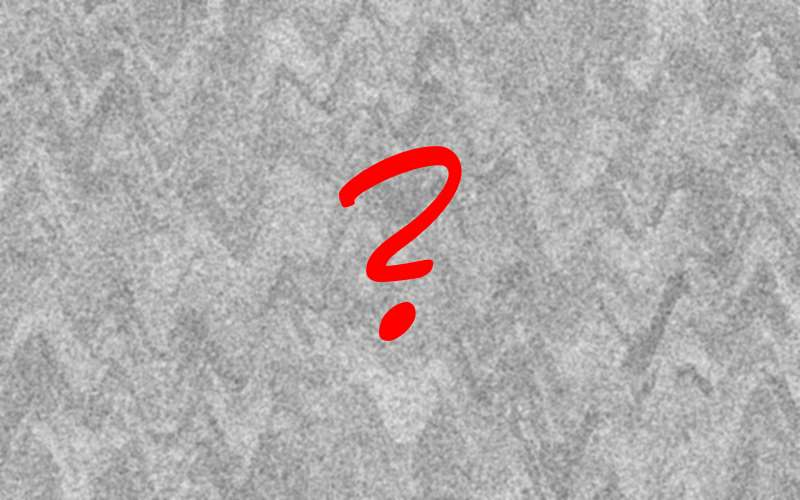
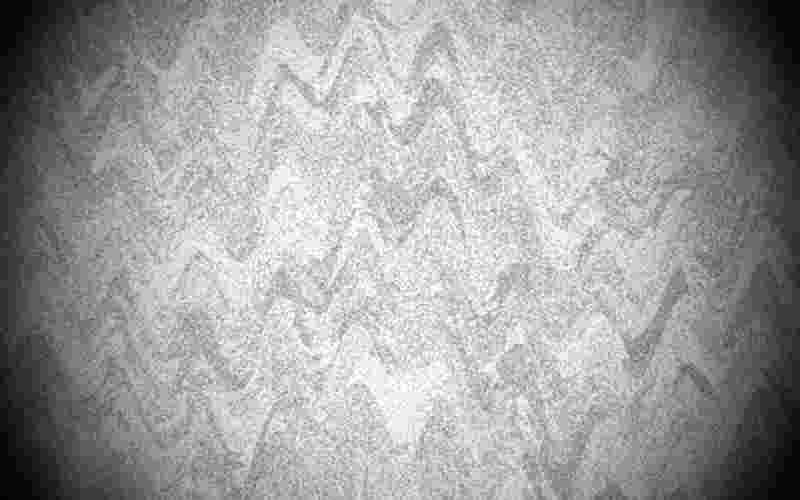
- added url params for info colors - changed default 'no signal image' (again)

diff --git a/www/main.js b/www/main.js
@@ -17,13 +17,9 @@ function writeToScreen(str) {
   while(out.children().length>5000) out.children().first().remove();
 }
 
-function pad(str, pad_str, max) {
+function pad (str, pad_str, max) {
   str = str.toString();
-  return str.length < max ? pad(pad_str.toString() + str, pad_str, max) : str;
-}
-
-function numberWithDots(x) {
-    return x.toString().replace(/\B(?=(\d{3})+(?!\d))/g, ".");
+  return str.length < max ? pad(pad_str.toString() + str, max) : str;
 }
 
 // New: GMCP support (Holger)
@@ -32,11 +28,6 @@ function getGMCPHello(){
 }
 
 function doGMCPReceive(sock, data) {
-
-  // Modify this line, if you need a different base URL
-  // or leave it blank to use a pure relative path.
-  var staticContentBase = 'http://wl.mud.de/webclient/';
-
   if(data.length>0) {
 
     // handle JSON data here and update UI!
@@ -44,117 +35,61 @@ function doGMCPReceive(sock, data) {
 
     var module = data.split(' ', 1)[0];
     var payload = data.substr(module.length);
-
-    if(module=='Core.Ping') {
-      // This should be the response of our ping, so ignore it!
-      return;
-    }
-
-    if(module=='Core.Goodbye') {
-      // The server tells us, we will be disconnected now.
-      var value = JSON.parse(payload);
-
-      if(value!=0) {
-        $('span#room_name').text(value);
-      }
-
-      $('img#room_image').attr('src', staticContentBase + 'img/aaa_no_signal.jpg');
-      $('img#room_image').attr('alt', 'Bildstoerung');
-      $('a#room_image_a').attr('href', staticContentBase + 'img/aaa_no_signal.jpg');
-      $('a#room_image_a').attr('data-title', 'Bildstoerung');
-
-      return;
-    }
   
     if(module=='Char.Vitals') {
+      //writeToScreen('GMCP: Char.Vitals!<br>');
       var values = JSON.parse(payload);
 
       // XP
       if('xp' in values){
-        $('span#xp.info').text(numberWithDots(values['xp']));
+        $('span#xp.info').text(pad(values['xp'], ' ', 3));
       }
 
       // HP
       if('hp' in values){
-        $('span#hp.info').text(values['hp']);
+        $('span#hp.info').text(pad(values['hp'], ' ', 3));
       }
       if('max_hp' in values){
-        $('span#max_hp.info').text(values['max_hp']);
+        $('span#max_hp.info').text(pad(values['max_hp'], ' ', 3));
       }
 
       // SP
       if('sp' in values){
-        $('span#sp.info').text(values['sp']);
+        $('span#sp.info').text(pad(values['sp'], ' ', 3));
       }
       if('max_sp' in values){
-        $('span#max_sp.info').text(values['max_sp']);
+        $('span#max_sp.info').text(pad(values['max_sp'], ' ', 3));
       }
 
       // QP
-      if('questpoints' in values){
-        $('span#questpoints.info').text(values['questpoints']);
+      if('qp' in values){
+        $('span#qp.info').text(pad(values['qp'], ' ', 3));
       }
-      if('max_questpoints' in values){
-        $('span#max_questpoints.info').text(values['max_questpoints']);
+      if('max_qp' in values){
+        $('span#max_qp.info').text(pad(values['max_qp'], ' ', 3));
       }
 
       // Wimpy
       if('wimpy' in values){
-        $('span#wimpy.info').text(values['wimpy']);
+        $('span#wimpy.info').text(pad(values['wimpy'], ' ', 3));
       }
       if('wimpy_dir' in values){
-        if(values['wimpy_dir']=='' || values['wimpy_dir']=='0')
-          $('span#wimpy_dir.info').text('keine');
-        else
-          $('span#wimpy_dir.info').text(values['wimpy_dir']);
+        $('span#wimpy_dir.info').text(pad(values['wimpy_dir'], ' ', 3));
       }
 
       // INT, STR, DEX, CON
       if('int' in values){
-        $('span#int.info').text(values['int']);
+        $('span#int.info').text(pad(values['int'], ' ', 3));
       }
       if('str' in values){
-        $('span#str.info').text(values['str']);
+        $('span#str.info').text(pad(values['str'], ' ', 3));
       }
       if('dex' in values){
-        $('span#dex.info').text(values['dex']);
+        $('span#dex.info').text(pad(values['dex'], ' ', 3));
       }
       if('con' in values){
-        $('span#con.info').text(values['con']);
+        $('span#con.info').text(pad(values['con'], ' ', 3));
       }
-
-      return;
-    }
-
-    if(module=='Room.Info') {
-      var values = JSON.parse(payload);
-
-      // name
-      if('name' in values){
-        $('span#room_name').text(values['name']);
-      }
-
-      // image
-      if('image' in values){
-        var img_a = $('a#room_image_a');
-        var img = $('img#room_image');
-        if(values['image']=='') {
-          img.attr('src', staticContentBase + 'img/aaa_no_signal.jpg');
-          img.attr('alt', 'Bildstoerung');
-          img_a.attr('href', staticContentBase + 'img/aaa_no_signal.jpg');
-          img_a.attr('data-title', 'Bildstoerung');
-        }
-        else {
-          img.attr('src', staticContentBase + values['image']);
-          img_a.attr('href', staticContentBase + values['image']);
-          if('name' in values) {
-            img.attr('alt', values['name']);
-            img_a.attr('data-title', values['name']);
-          }
-        }
-      }
-
-      return;
     }
   } 
 }
@@ -333,18 +268,31 @@ function adjustLayout() {
 
 }
 
+function adjustColors() {
+  var queryParams=parseQuery(document.location.search);
+
+  var bgColor = queryParams['bg'];
+  if(bgColor!=null) { $(document).get(0).body.style.backgroundColor='#'+bgColor; }
+
+  var fgColor = queryParams['fg'];
+  if(fgColor!=null){ $(document).get(0).body.style.color='#'+fgColor; }
+
+  var infoBgColor = queryParams['ibg'];
+  if(infoBgColor!=null) { $('div#info').get(0).style.backgroundColor='#'+infoBgColor; }
+
+  var infoFgColor = queryParams['ifg'];
+  if(infoFgColor!=null) { 
+    $('div#info').get(0).style.color='#'+infoFgColor; 
+    $('div#info').get(0).style.borderColor='#'+infoFgColor; 
+  }
+}
+
 $(window).resize(adjustLayout);
 
 $(document).ready(function(){
 
   // adjust colors
-  var queryParams=parseQuery(document.location.search);
-  var bgColor = queryParams['bg'];
-  if(bgColor!=null) { $(this).get(0).body.style.backgroundColor='#'+bgColor; }
-//  if(bgColor!=null) { $('div#out').get(0).style.backgroundColor='#'+bgColor; }
-  var fgColor = queryParams['fg'];
-  if(fgColor!=null){ $(this).get(0).body.style.color='#'+fgColor; }
-//  if(fgColor!=null){ $('div#out').get(0).style.color='#'+fgColor; }
+  adjustColors();
 
   // show help text
   jQuery.get('/help.txt', function(data) {
